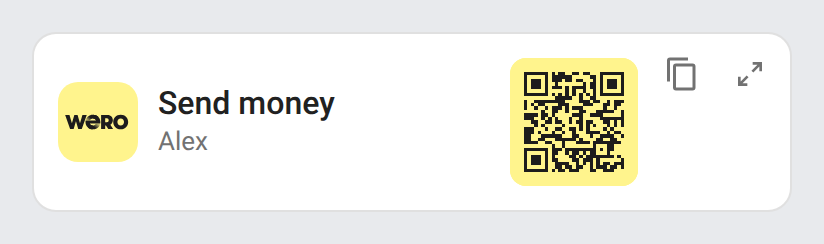
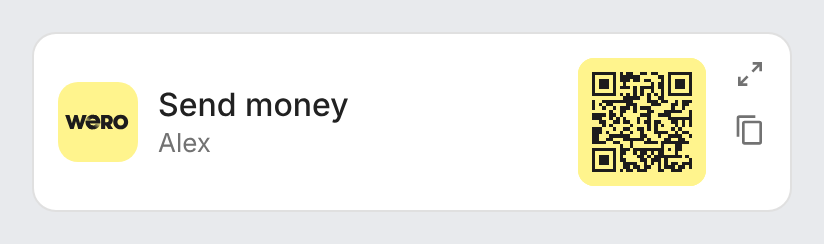
feat: mini card copy button under the detail button
The compact view's copy button moves into a column under the detail
button, so the QR thumbnail sits right next to it, aligned with the
Wi-Fi mini card. The full view and the full card keep their header row.

Claude-Session: https://claude.ai/code/session_01F4sAn1Ek4h88w9whpdhjW8

Changed region(s): [[0.6068, 0.2295, 0.9405, 0.7746], [0.182, 0.373, 0.4248, 0.5164], [0.182, 0.5451, 0.2731, 0.6311]]

diff --git a/src/wero-card.js b/src/wero-card.js
@@ -698,6 +698,9 @@ class WeroCard extends HTMLElement {
         <dialog id="zoom" aria-label="${zoom}"></dialog>
         ${c.name ? `<div class="info-row"><div class="lbl">${weroEsc(this._t('payee'))}</div><div class="val">${weroEsc(c.name)}</div></div>` : ''}
         <div class="hint">${weroEsc(this._t('hint'))}</div>`;
+    var copyBtn = `<button id="copy" title="${copy}" aria-label="${copy}"><ha-icon icon="mdi:content-copy" id="ico"></ha-icon></button>`;
+    // Compact view: the copy button goes under the detail button, so the thumbnail sits right next to that column
+    var actions = compact ? `<div class="side">${this._zoomButton()}${copyBtn}</div>` : copyBtn + this._zoomButton();
     if (compact) {
       var sub = c.name ? `<span class="sub" title="${weroEsc(c.name)}">${weroEsc(c.name)}</span>` : '';
       title = `<div class="txt">${title}${sub}</div>${qrEl}`;
@@ -747,7 +750,6 @@ class WeroCard extends HTMLElement {
         :host([mini])::before { content: ""; display: grid; grid-template-columns: minmax(0, 240px); height: 0; }
         ha-card.mini { container-type: inline-size; }
         ha-card.mini .header { margin-bottom: 0; }
-        ha-card.mini #copy { align-self: flex-start; margin-top: -4px; }
         .txt { flex: 1 1 auto; min-width: 0; display: flex; flex-direction: column; gap: 2px; }
         .txt .name { flex: none; min-width: 0; }
         .sub { font-size: 13px; line-height: 1.25; color: var(--secondary-text-color); white-space: nowrap; overflow: hidden; text-overflow: ellipsis; }
@@ -758,6 +760,10 @@ class WeroCard extends HTMLElement {
         .zoom ha-icon { color: inherit; --mdc-icon-size: 16px; }
         .zoom:hover { background: color-mix(in srgb, var(--secondary-text-color) 14%, transparent); color: var(--primary-text-color); }
         .zoom:focus-visible { outline: 2px solid var(--primary-color, #03a9f4); outline-offset: 1px; }
+        /* The detail button with the copy button under it, in a column at the top right (the 4 px of the button's own margin) */
+        .side { flex: none; align-self: flex-start; display: flex; flex-direction: column; gap: 4px; margin: -4px -4px -4px 0; }
+        .side .zoom { margin: 0; }
+        .side #copy ha-icon { --mdc-icon-size: 16px; }
         /* A very narrow mini card: a smaller thumbnail, the copy button gives way (the full card keeps it) */
         @container (max-width: 200px) {
           ha-card.mini { padding: 10px; }
@@ -772,7 +778,7 @@ class WeroCard extends HTMLElement {
         <div class="header">
           ${c.logo ? `<img class="logo" src="${WERO_LOGO}" alt="Wero">` : '<div class="badge"><ha-icon icon="mdi:qrcode-scan"></ha-icon></div>'}
           ${title}
-          <button id="copy" title="${copy}" aria-label="${copy}"><ha-icon icon="mdi:content-copy" id="ico"></ha-icon></button>${this._zoomButton()}
+          ${actions}
         </div>
         ${body}
         <span class="sr" id="live" aria-live="polite"></span>

diff --git a/README.md b/README.md
@@ -105,7 +105,7 @@ name: Alex
 zoom: true
 ```
 
-The mini card takes the same options as the full card, plus `zoom`. It shows the logo, the title and the payee name on one row, with a small QR thumbnail on the right. A tap on the thumbnail opens the QR code full screen, like the big one of the full card. The detail button (top right) switches to the full card; the button, or a click anywhere outside the card, brings the compact view back. The copy button stays in the compact header; on a card 200 px wide or less the thumbnail gets smaller and the copy button gives way (the full card keeps it).
+The mini card takes the same options as the full card, plus `zoom`. It shows the logo, the title and the payee name on one row, with a small QR thumbnail on the right. A tap on the thumbnail opens the QR code full screen, like the big one of the full card. The detail button (top right) switches to the full card; the button, or a click anywhere outside the card, brings the compact view back. The copy button sits under the detail button, so the thumbnail lines up with the other mini cards; on a card 200 px wide or less the thumbnail gets smaller and the copy button gives way (the full card keeps it).
 
 ### Options reference
 

diff --git a/CHANGELOG.md b/CHANGELOG.md
@@ -5,6 +5,7 @@
 ### What's new
 - The QR code image's screen reader label is translated in the 22 languages of the card and follows a language change.
 - The main card's name and description in the card picker are shown in the language of Home Assistant, like the mini card's.
+- Mini card: the copy button moves under the detail button in the top right corner, so the QR thumbnail sits right next to that column and lines up with the other mini cards (such as the Wi-Fi one).
 
 ## 1.9.2 - 2026-11-07
 
